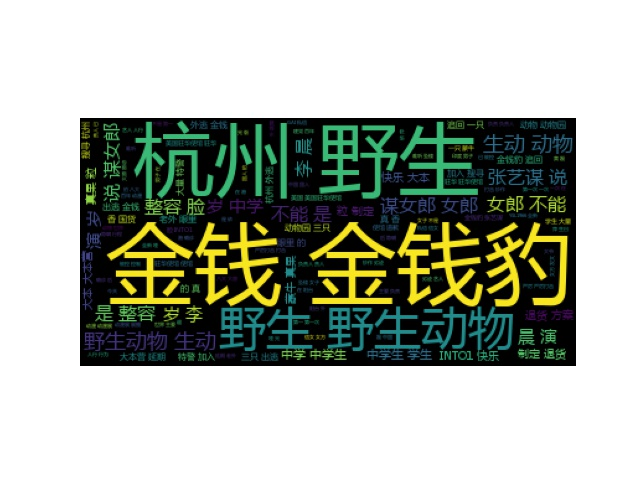
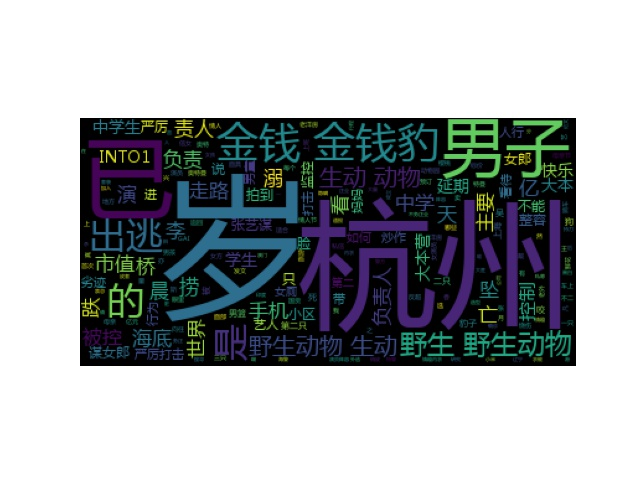
range 10 --> 50

Changed region(s): [[0.125, 0.25, 0.9062, 0.75]]

diff --git a/weibo_hotrank.py b/weibo_hotrank.py
@@ -20,7 +20,7 @@ today = datetime.date.today()
 
 title = bs.select('#pl_top_realtimehot > table > tbody > tr > td.td-02 > a')
 
-for i in range(30):
+for i in range(50):
 	hot_news = {}
 	# 将信息保存到字典中
 	hot_news['title'] = title[i+1].get_text()
